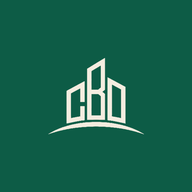
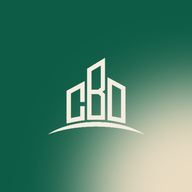
Registro de frente, sin pantalla verde e ícono con degradado
- Paso 1 compacto: monto y Escanear QR en una fila, botones fijos abajo;
  todo se ve con el teclado abierto sin deslizar.
- Se quita la pantalla verde con logo al abrir; el splash usa el beige
  de la app y el inicio entra con tarjetas que suben y cifras contadas.
- Ícono: mismo logo y verde, con degradado a beige abajo a la derecha.

diff --git a/index.html b/index.html
@@ -302,6 +302,19 @@ input,select{font:inherit;font-size:16px;color:var(--ink);background:var(--bg);b
 .monto-big:focus-within{border-color:var(--brand)}
 .qr-btn{display:flex;align-items:center;justify-content:center;gap:10px;border:1.5px dashed var(--brand-2);background:transparent;color:var(--brand-2);border-radius:14px;padding:12px;font-weight:700}
 .qr-btn svg{width:22px;height:22px}
+/* Paso 1 compacto: monto y QR en una sola fila; botones del formulario fijos abajo */
+.monto-fila{display:flex;align-items:flex-end;gap:10px}
+.monto-fila .monto-big{flex:1;min-width:0}
+.monto-fila .monto-big input{width:100%;min-width:0}
+.monto-fila .qr-btn{flex:none;flex-direction:column;gap:4px;padding:8px 10px;font-size:.7rem;line-height:1.1;border-radius:12px;min-width:74px}
+.nav-pasos{position:sticky;bottom:calc(-20px - env(safe-area-inset-bottom,0px));z-index:2;background:var(--surface);margin:0 -20px calc(-20px - env(safe-area-inset-bottom,0px));padding:10px 20px calc(12px + env(safe-area-inset-bottom,0px));box-shadow:0 -1px 0 var(--line)}
+@media (max-width:640px){
+  .sheet{gap:10px;padding:16px 16px calc(16px + env(safe-area-inset-bottom,0px))}
+  .sheet h3{font-size:1.05rem}
+  .nav-pasos{bottom:calc(-16px - env(safe-area-inset-bottom,0px));margin:0 -16px calc(-16px - env(safe-area-inset-bottom,0px));padding:10px 16px calc(10px + env(safe-area-inset-bottom,0px))}
+  .monto-big input{font-size:clamp(2.1rem,10vw,2.8rem)}
+  .paso label[for="monto"]{display:none}
+}
 .nav-pasos{display:grid;grid-template-columns:auto 1fr;gap:10px;margin-top:4px}
 .nav-pasos .btn{width:100%}
 .ac-wrap{position:relative}
@@ -370,7 +383,6 @@ input,select{font:inherit;font-size:16px;color:var(--ink);background:var(--bg);b
 </style>
 </head>
 <body>
-<div id="intro" aria-hidden="true"><img src="icon-512.png" alt=""></div>
 <div class="app" id="app">
   <aside class="side" id="side" aria-label="Menú">
[1 lines of base64/hex data omitted]
@@ -574,8 +586,10 @@ input,select{font:inherit;font-size:16px;color:var(--ink);background:var(--bg);b
         <button type="button" data-v="gasto" aria-pressed="false">− Gasto / compra</button>
       </div>
       <label for="monto">Monto total (S/)</label>
-      <div class="monto-big"><span>S/</span><input id="monto" type="text" inputmode="decimal" autocomplete="off" placeholder="0.00" aria-label="Monto total en soles"></div>
-      <button type="button" class="qr-btn" id="btnQR"><svg viewBox="0 0 24 24" fill="none" stroke="currentColor" stroke-width="2"><path d="M4 8V5a1 1 0 0 1 1-1h3M16 4h3a1 1 0 0 1 1 1v3M20 16v3a1 1 0 0 1-1 1h-3M8 20H5a1 1 0 0 1-1-1v-3"/><rect x="8" y="8" width="3" height="3"/><rect x="13" y="8" width="3" height="3"/><rect x="8" y="13" width="3" height="3"/><path d="M13 13h3v3"/></svg>Escanear QR del comprobante</button>
+      <div class="monto-fila">
+        <div class="monto-big"><span>S/</span><input id="monto" type="text" inputmode="decimal" autocomplete="off" placeholder="0.00" aria-label="Monto total en soles"></div>
+        <button type="button" class="qr-btn" id="btnQR" aria-label="Escanear QR del comprobante"><svg viewBox="0 0 24 24" fill="none" stroke="currentColor" stroke-width="2"><path d="M4 8V5a1 1 0 0 1 1-1h3M16 4h3a1 1 0 0 1 1 1v3M20 16v3a1 1 0 0 1-1 1h-3M8 20H5a1 1 0 0 1-1-1v-3"/><rect x="8" y="8" width="3" height="3"/><rect x="13" y="8" width="3" height="3"/><rect x="8" y="13" width="3" height="3"/><path d="M13 13h3v3"/></svg><span>Escanear QR</span></button>
+      </div>
     </div>
 
     <div class="paso" data-paso="2" hidden>
@@ -1391,26 +1405,21 @@ render();
 if(!cfg) abrirSetup(""); else cargar();
 bloquearSiHayPin();
 
-/* Transición de entrada: el verde del splash se recoge, las tarjetas suben y las cifras se cuentan */
+/* Transición de entrada: las tarjetas suben y las cifras se cuentan (sin pantalla verde) */
 (function entrada(){
-  const intro=$("intro"); if(!intro)return;
   const reduce=matchMedia("(prefers-reduced-motion: reduce)").matches;
-  if(reduce||!intro.animate){intro.remove();return}
+  if(reduce||!document.body.animate)return;
   const piezas=[...document.querySelectorAll('[data-sec="inicio"] .big, [data-sec="inicio"] .panel, .bar')].slice(0,8);
   piezas.forEach(p=>p.classList.add("entra"));
   const contar=el=>{if(!el)return;const s=el.querySelector("small");const txt=el.textContent.replace(/^S\//,"");const neg=txt.includes("−");const fin=parseInt(txt.replace(/[^\d]/g,""))||0;if(!fin)return;
     const t0=performance.now(),dur=900;const paso=t=>{const k=Math.min(1,(t-t0)/dur),e=1-Math.pow(1-k,3);el.innerHTML=`<small>${s?s.textContent:"S/"}</small>${(neg?"−":"")+Math.round(fin*e).toLocaleString("es-PE")}`;if(k<1)requestAnimationFrame(paso)};requestAnimationFrame(paso)};
   const salir=()=>{
-    const img=intro.querySelector("img");
-    img.animate([{transform:"scale(1)",opacity:1},{transform:"scale(.82) translateY(-30px)",opacity:0}],{duration:420,easing:"cubic-bezier(.4,0,.2,1)",fill:"forwards"});
-    const cortina=intro.animate([{transform:"translateY(0)",borderRadius:"0 0 0 0"},{transform:"translateY(-100%)",borderRadius:"0 0 50% 50% / 0 0 14vh 14vh"}],{duration:720,delay:180,easing:"cubic-bezier(.76,0,.24,1)",fill:"forwards"});
-    piezas.forEach((p,i)=>p.animate([{opacity:0,transform:"translateY(18px)"},{opacity:1,transform:"none"}],{duration:560,delay:520+i*60,easing:"cubic-bezier(.22,1,.36,1)",fill:"forwards"}).onfinish=()=>{p.classList.remove("entra");p.getAnimations().forEach(a=>a.cancel())});
-    setTimeout(()=>{contar($("bigUtV"));contar($("bigSunV"))},560);
-    cortina.onfinish=()=>intro.remove();
+    piezas.forEach((p,i)=>p.animate([{opacity:0,transform:"translateY(18px)"},{opacity:1,transform:"none"}],{duration:560,delay:i*60,easing:"cubic-bezier(.22,1,.36,1)",fill:"forwards"}).onfinish=()=>{p.classList.remove("entra");p.getAnimations().forEach(a=>a.cancel())});
+    setTimeout(()=>{contar($("bigUtV"));contar($("bigSunV"))},120);
   };
   // Espera a que la fuente y el primer pintado estén listos (máx. 600 ms) para que no salte
   const listo=document.fonts&&document.fonts.ready?Promise.race([document.fonts.ready,new Promise(r=>setTimeout(r,600))]):Promise.resolve();
-  listo.then(()=>requestAnimationFrame(()=>setTimeout(salir,150)));
+  void listo; requestAnimationFrame(salir);
 })();
 if("serviceWorker" in navigator){window.addEventListener("load",()=>navigator.serviceWorker.register("sw.js").catch(()=>{}))}
 </script>

diff --git a/sw.js b/sw.js
@@ -1,5 +1,5 @@
 // CBO Finanzas — permite instalar la app y abrirla aunque no haya señal.
-const CACHE="cbo-finanzas-v7-teclado";
+const CACHE="cbo-finanzas-v8-compacto";
 const ARCHIVOS=["./","index.html","manifest.json","icon-192.png","icon-512.png","maskable-192.png","maskable-512.png"];
 self.addEventListener("install",e=>{e.waitUntil(caches.open(CACHE).then(c=>c.addAll(ARCHIVOS)));self.skipWaiting()});
 self.addEventListener("activate",e=>{e.waitUntil(caches.keys().then(ks=>Promise.all(ks.filter(k=>k!==CACHE).map(k=>caches.delete(k)))));self.clients.claim()});
